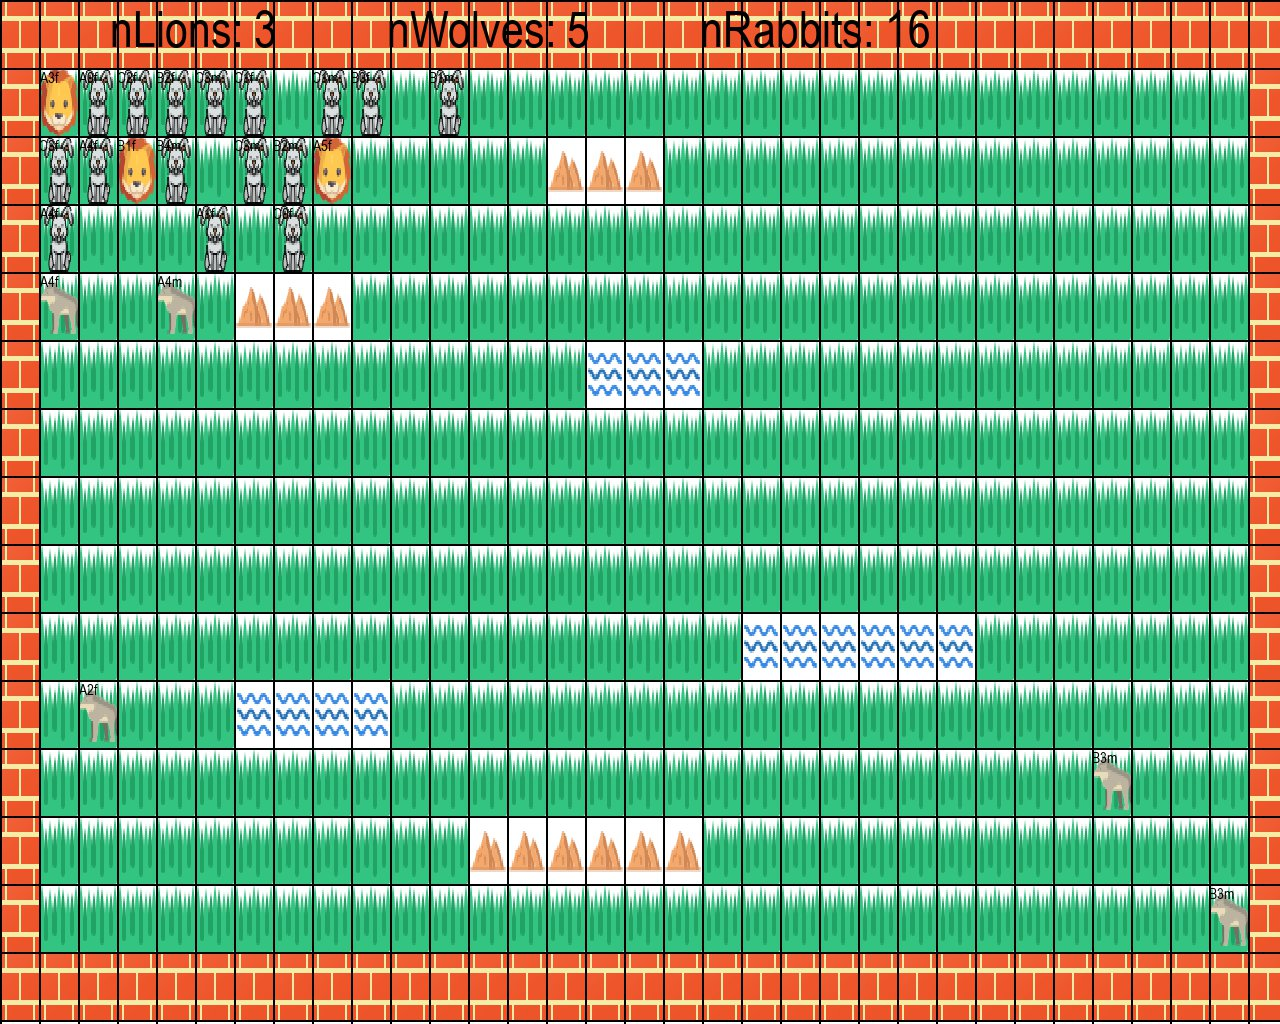
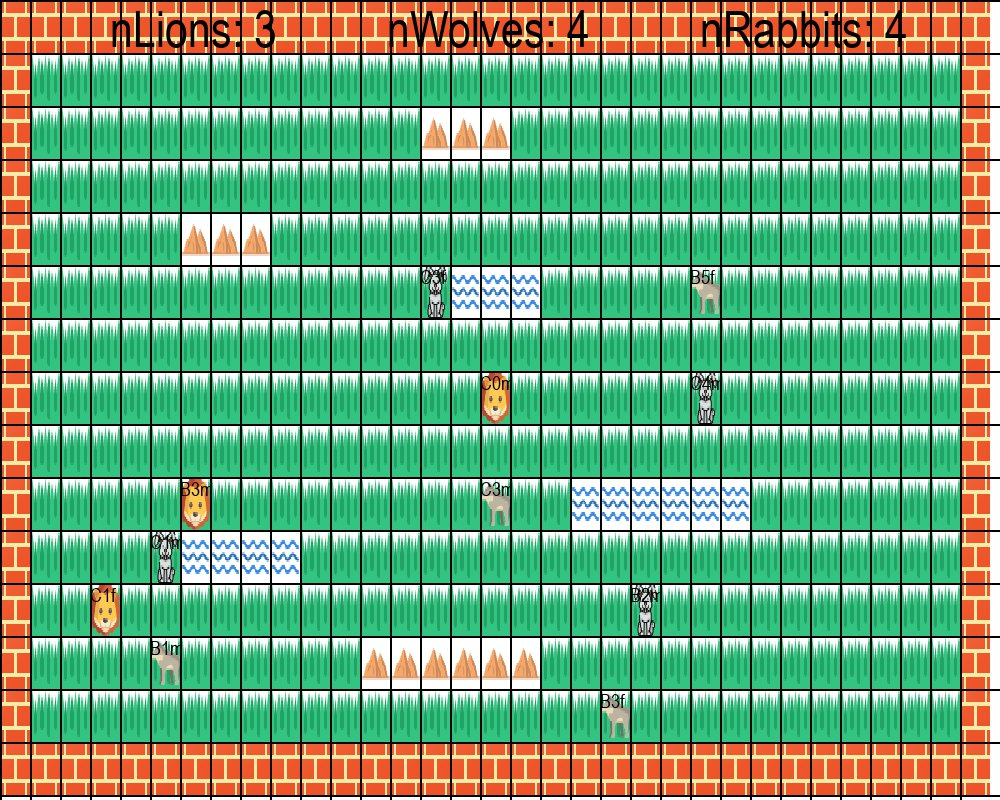
update

diff --git a/config.py b/config.py
@@ -11,8 +11,8 @@ DARKGREY = (40,40,40)
 
 #Game settings
 
-WIDTH = 1280
-HEIGHT = 1024
+WIDTH = 1000
+HEIGHT = 800
 FPS = 1
 TITLE = "Animal Kindom"
 
